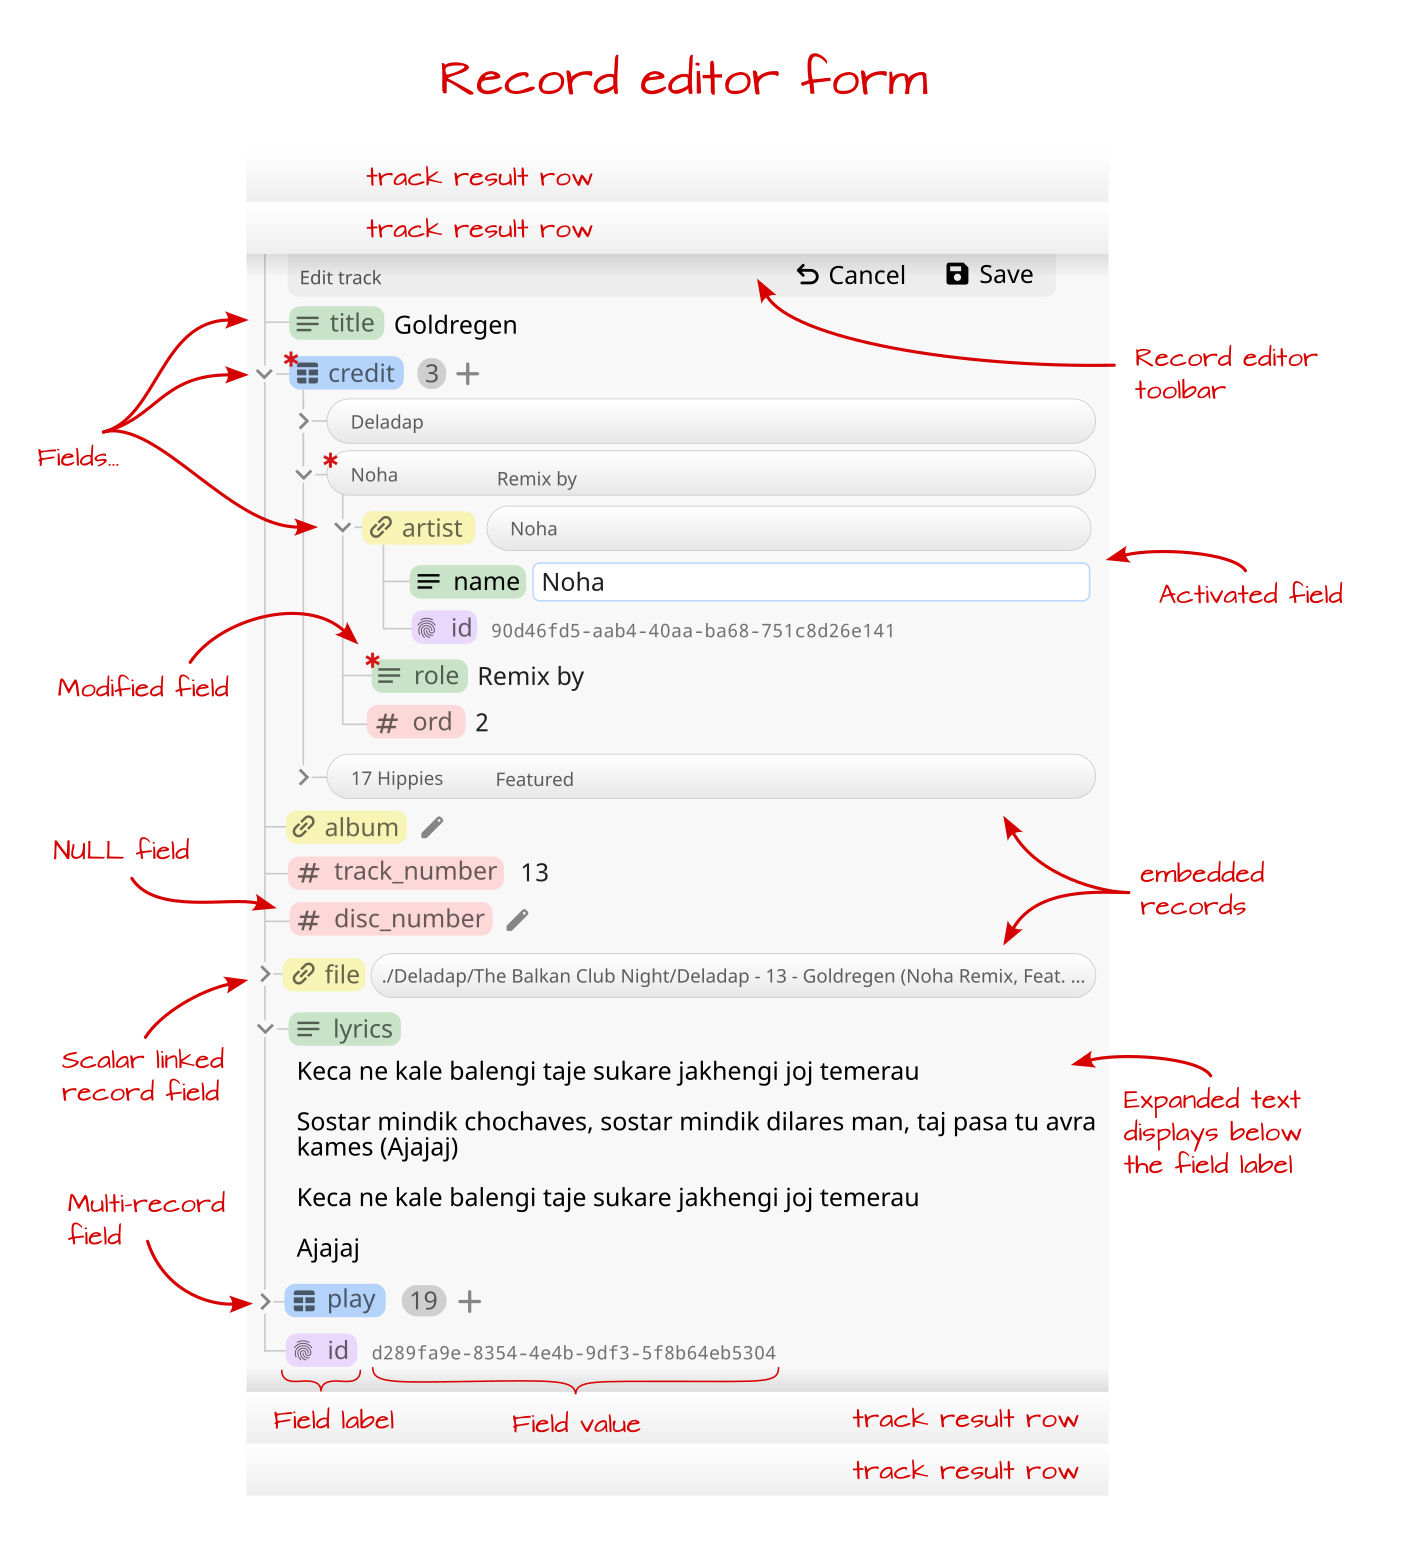
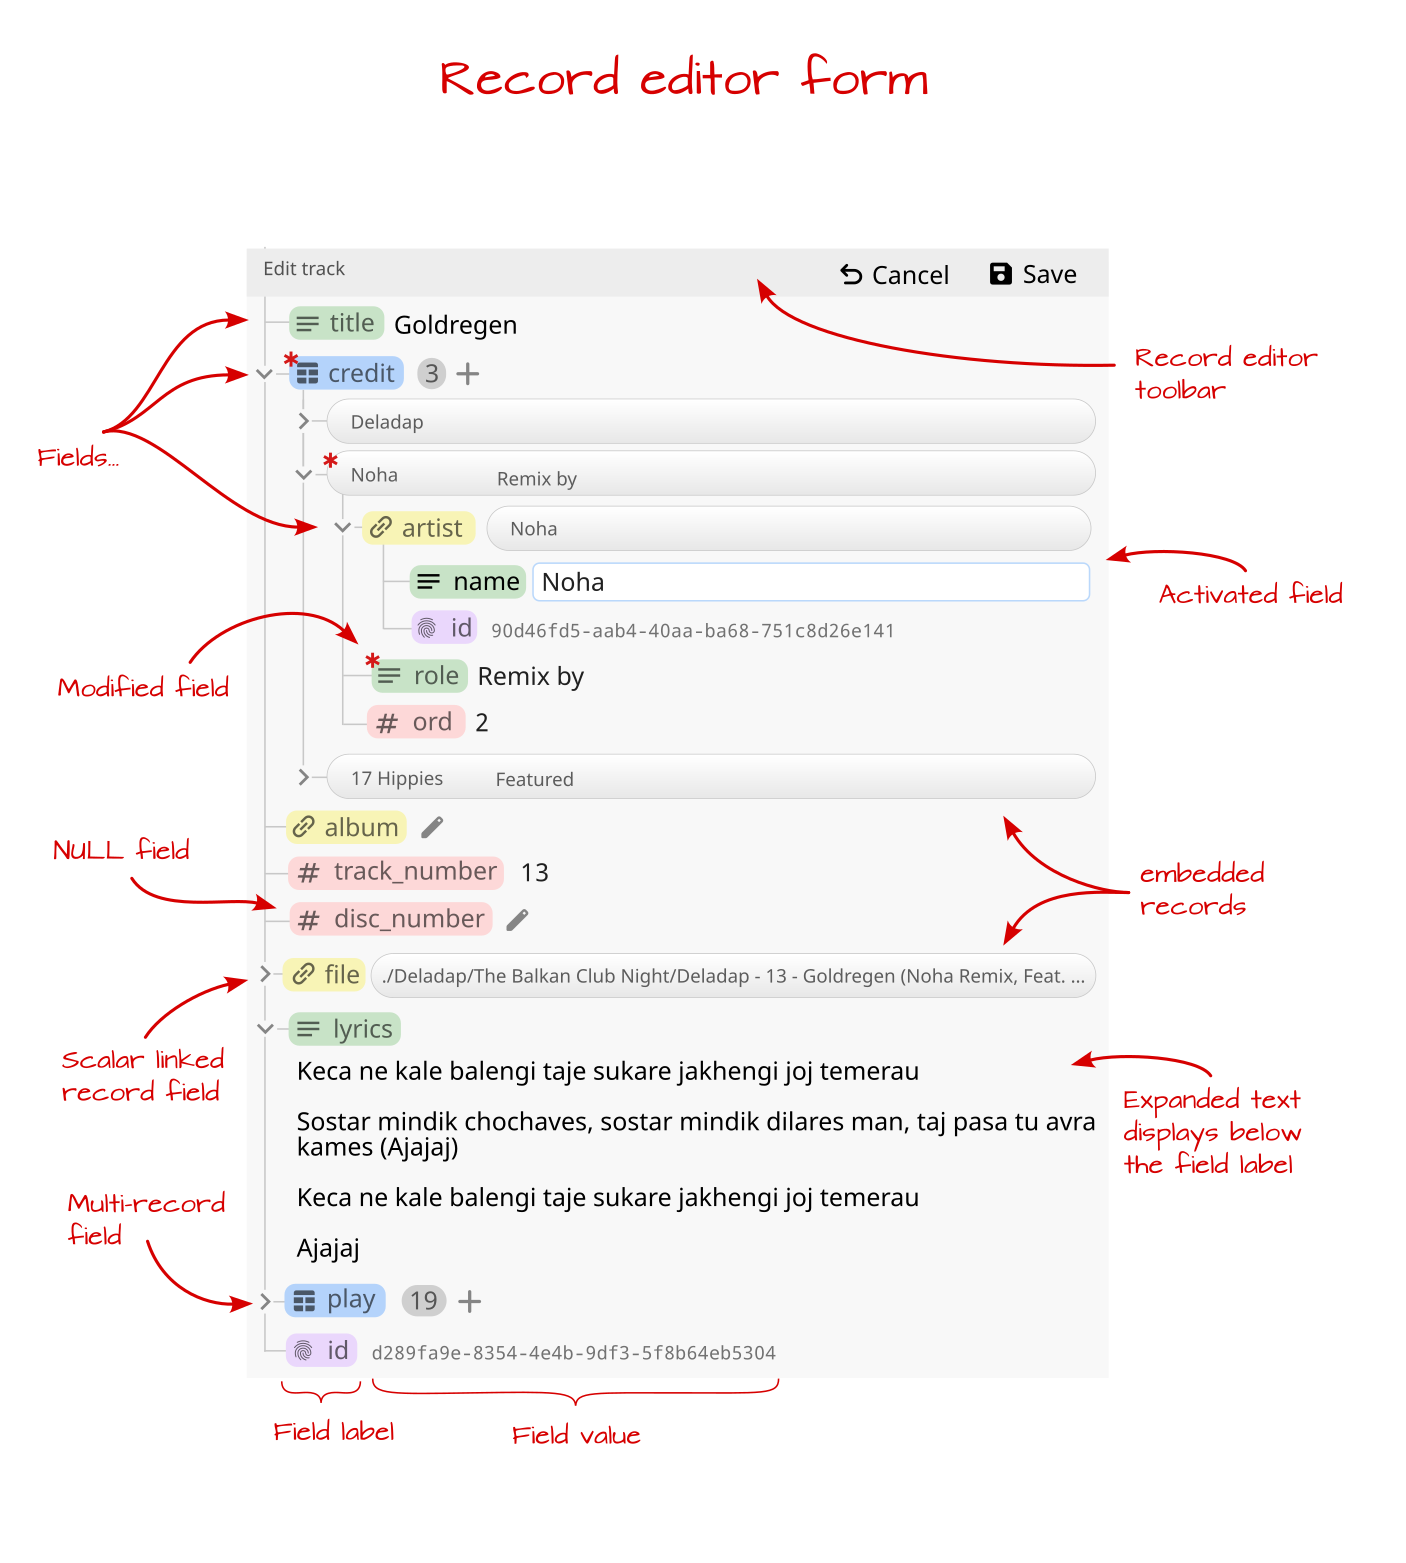
Modify DML UI plans to pursue a sidebar approach

diff --git a/plans/2026-07-dml-ui-form/plan.md b/plans/2026-07-dml-ui-form/plan.md
@@ -4,7 +4,7 @@ Begin implementing a dynamic form system for CRUD on arbitrary records in the da
 
 ## Scope
 
-The scope for this session is as follows:
+The scope for this phase is as follows:
 
 1. Modify the query results view to allow for this new functionality.
 1. Render the edit form with all its data initialized.
@@ -13,7 +13,7 @@ The scope for this session is as follows:
 
 Out of scope:
 
-- Handling submission of the form to actually save the results. (We'll handle that in a separate session.)
+- Handling submission of the form to actually save the results. (We'll handle that later.)
 
 ## Product-level design philosophy
 
@@ -61,7 +61,7 @@ Notes on the mockup:
 
     - (B) The user should be able to execute a command from the command pallette or keyboard shortcut. Label this command "Results: Edit selected rows"
 
-1. I would ideally like the record editor UI to open inline within the query results, as shown in the mockup. It should open underneath the row being edited, between it and the next row. The record editor UI will have a dynamic height, potentially changing as the user interacts with it. I'm not sure how easy it will be to incorporate this dynamically-sized element into the results pane. If it poses a significant challenge, then we could consider moving the record editor UI to a modal side panel on the right. But I would like you to try to get it implemented within the results, even if it means refactoring some code. There should only be one vertical scrollbar — the main results scrollbar. And no horizontal scrollbars.
+1. The record editor UI should open in a right sidebar as shown in the mockup.
 
 1. As you can see in the mockup, the record editor UI follows a tree structure. The user should be able to collapse and expand items, where indicated by the chevron icons. Initially, all items should be collapsed.
 
@@ -69,11 +69,11 @@ Notes on the mockup:
 
 1. When a field has been modified, we should render a red star as a superscript on the field label.
 
-1. When the form has any unsaved changes, the Save button should become enabled. (But remember: we don't need to handle its submission within this session.)
+1. When the form has any unsaved changes, the Save button should become enabled. (But remember: we don't need to handle its submission right now.)
 
-1. With the edit form open, the user should still be able to scroll to see and interact with other results. The user should even be able to open multiple editor forms simultaneously.
+1. With the record editor sidebar open, the user should still be able to interact with the query results. If the user selects another query result, then the record editor should switch contexts to the record that the user selects. If the user selects multiple records, then the sidebar should display text like "2 records selected. Bulk editing not yet supported", and it should not render a record editor form.
 
-1. When the user clicks "Cancel", the form should close.
+1. When the user clicks "Cancel", the sidebar should close.
 
 ## Form structure and data loading
 
@@ -89,11 +89,11 @@ Notes on the mockup:
 
 ## Selection and focus
 
-- When a record editor form is opened for a query result row, that result row and all other result rows in the query should still be selectable. In addition to the user being able to select query result rows, the user should also be able to select field labels and embedded records.
+- Within the record editor form, the user should be able to select field labels and embedded records.
 
-- We should support selection of multiple things — but only homogeneous selections. For example, in the attached mockup, the user should be able to select multiple `credit` records but not select an `album` record and a `file` record at the same time. Likewise, we should also not allow selection of records in the top level of the query results (outside the record editor form) combined with selection of embedded records. If the user tries to use Ctrl or Shift to select multiple heterogeneous records, the selection should not change. And any time the user single-clicks to select something (embedded or query-level), then we should un-select everything else.
+- We should support selection of embedded records — but only when they are siblings within a multi-record field. Field labels and embedded records in linked record fields should only support single selection.
 
-- Field labels should only support single selection, not multiple selection.
+- When an element is selected, it should also receive focus.
 
 - Modify the label of several existing command actions to make them more general-purpose so that they apply to the selection of UI elements within the record editor form.
 
@@ -116,6 +116,8 @@ Notes on the mockup:
 ## Form modification
 
 - **Ephemeral changes**: Changes to the form should be stored in memory until the user clicks "Save". A user's changes should persist even after collapsing and expanding sections of the tree. Given all the intricate and dynamic nesting of this form system, I'm not sure of the best data structure to meet this requirement. I'll leave that to you.
+
+- **Form state within the query page**: Changes within the record editor form should persist within the query page tab, stored per record, keyed on the record's primary key value. If a record has unsaved changes, a red star should display within the query result row. The user should be able to select a record, make changes, leave the form unsaved, then switch to another record, then select the original record and save it.
 
 - **Field modification status indicators**: Use a red star to indicate fields that the user has modified. Propagate this status up through the tree so that field modification will be visible even when sections of the tree are collapsed.
 
